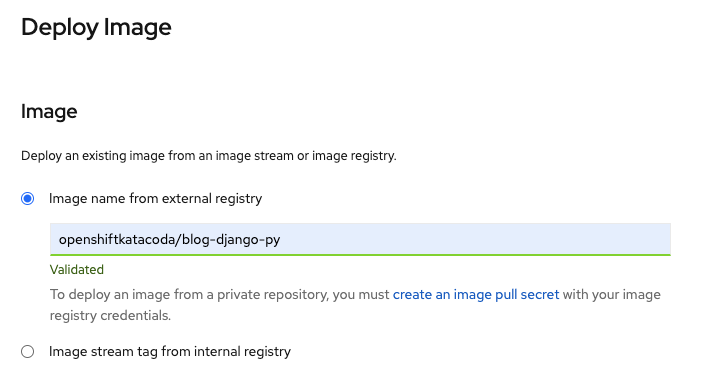
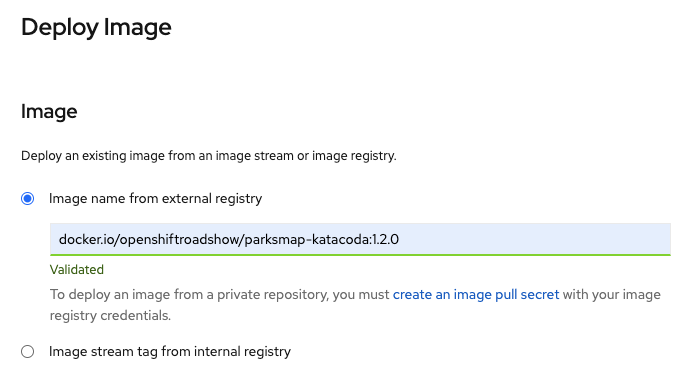
Updating syntax

diff --git a/introduction/transferring-files/02-downloading-files-from-a-container.md b/introduction/transferring-files/02-downloading-files-from-a-container.md
@@ -14,7 +14,7 @@ The command will exit once the deployment has completed and the web application 
 
 The result of the deployment will be the running container. You can see the name of the pods corresponding to the running containers for this application, by running:
 
-``oc get pods --selector app=blog``{{execute}}
+``oc get pods --selector deploymentconfig=blog``{{execute}}
 
 You only have one instance of the application so only one pod will be listed, similar to:
 
@@ -29,7 +29,7 @@ To make it easier to reference the name of the pod in these instructions, we def
 
 The command we will run from the shell function to get out just the name of the pod will be:
 
-``oc get pods --selector app=blog -o jsonpath='{.items[?(@.status.phase=="Running")].metadata.name}'``{{execute}}
+``oc get pods --selector deploymentconfig=blog -o jsonpath='{.items[?(@.status.phase=="Running")].metadata.name}'``{{execute}}
 
 As above this uses ``oc get pods`` with a label selector, but we also use a ``jsonpath`` query to extract the name of the running pod.
 
@@ -39,7 +39,7 @@ To create the shell function run:
 
 To capture the name of the pod for this application in the ``POD`` environment variable, run:
 
-``POD=`pod app=blog`; echo $POD``{{execute}}
+``POD=`pod deploymentconfig=blog`; echo $POD``{{execute}}
 
 To create an interactive shell within the same container running the application, you can use the ``oc rsh`` command, supplying it the environment variable holding the name of the pod.
 

diff --git a/introduction/deploying-images/02-deploying-using-the-web-console.md b/introduction/deploying-images/02-deploying-using-the-web-console.md
@@ -1,16 +1,14 @@
 On the _Topology_ view, select _Container Image_. This should present the option of deploying an image by performing a search for the image on an image registry.
 
-![Image Search](../../assets/introduction/deploying-images-44/02-image-search.png)
-
 For this example, the application image we are going to deploy is being hosted on the Docker Hub Registry.
 
-In the _Image Name_ field enter:
+In the _Image name from external registry_ field enter:
 
 ``openshiftkatacoda/blog-django-py``{{copy}}
 
-Press _Enter_, or click on the magnifying glass to the right of the field. This should trigger a query to pull down the details of the image from the Docker Hub Registry, including information on when the image was last updated, the size of the image and the number of layers.
+Press tab or click outside of the text field. This should trigger a query validate the image.
 
-![Application Image Details](../../assets/introduction/deploying-images-44/02-image-name-details.png)
+![Image Search](../../assets/introduction/deploying-images-44/02-image-search.png)
 
 From the name of the image, the _Application Name_ and deployment _Name_ fields will be automatically populated.
 

diff --git a/introduction/port-forwarding/03-starting-an-interactive-shell.md b/introduction/port-forwarding/03-starting-an-interactive-shell.md
@@ -1,6 +1,6 @@
 In order to know where the database is running to connect to, run the command:
 
-``oc get pods --selector app=database``{{execute}}
+``oc get pods --selector name=database``{{execute}}
 
 This will output the details of the pod which is running the database.
 
@@ -11,7 +11,7 @@ database-1-9xv8n   1/1       Running   0          1m
 
 To make it easier to reference the name of the pod, capture the name of the pod in an environment variable by running:
 
-``POD=`oc get pods --selector app=database -o custom-columns=name:.metadata.name --no-headers`; echo $POD``{{execute}}
+``POD=`oc get pods --selector name=database -o custom-columns=NAME:.metadata.name --no-headers`; echo $POD``{{execute}}
 
 To create an interactive shell within the same container running the database, you can use the ``oc rsh`` command, supplying it the name of the pod.
 

diff --git a/introduction/resource-objects/01-deploying-an-application.md b/introduction/resource-objects/01-deploying-an-application.md
@@ -12,7 +12,7 @@ This should automatically switch you to the new project, so you are ready to dep
 
 The application you are going to deploy is the ParksMap web application used in the _Getting Started with OpenShift for Developers_ Katacoda course.
 
-``oc new-app openshiftroadshow/parksmap-katacoda:1.0.0 --name parksmap``{{execute}}
+``oc new-app openshiftroadshow/parksmap-katacoda:1.2.0 --name parksmap``{{execute}}
 
 By default when using ``oc new-app`` from the command line to deploy an application, the application will not be exposed to the public. As our final step you therefore need to expose the service so that people can access it.
 

diff --git a/introduction/transferring-files/04-synchronizing-files-with-a-container.md b/introduction/transferring-files/04-synchronizing-files-with-a-container.md
@@ -78,7 +78,7 @@ Monitor the re-deployment of the application by running:
 
 Because the existing pod has been shutdown, we will need to capture again the new name for the pod.
 
-``POD=`pod app=blog`; echo $POD``{{execute}}
+``POD=`pod deploymentconfig=blog`; echo $POD``{{execute}}
 
 You may also notice that the synchronization process we had running in the background may have stopped. This is because the pod it was connected to had been shutdown.
 
